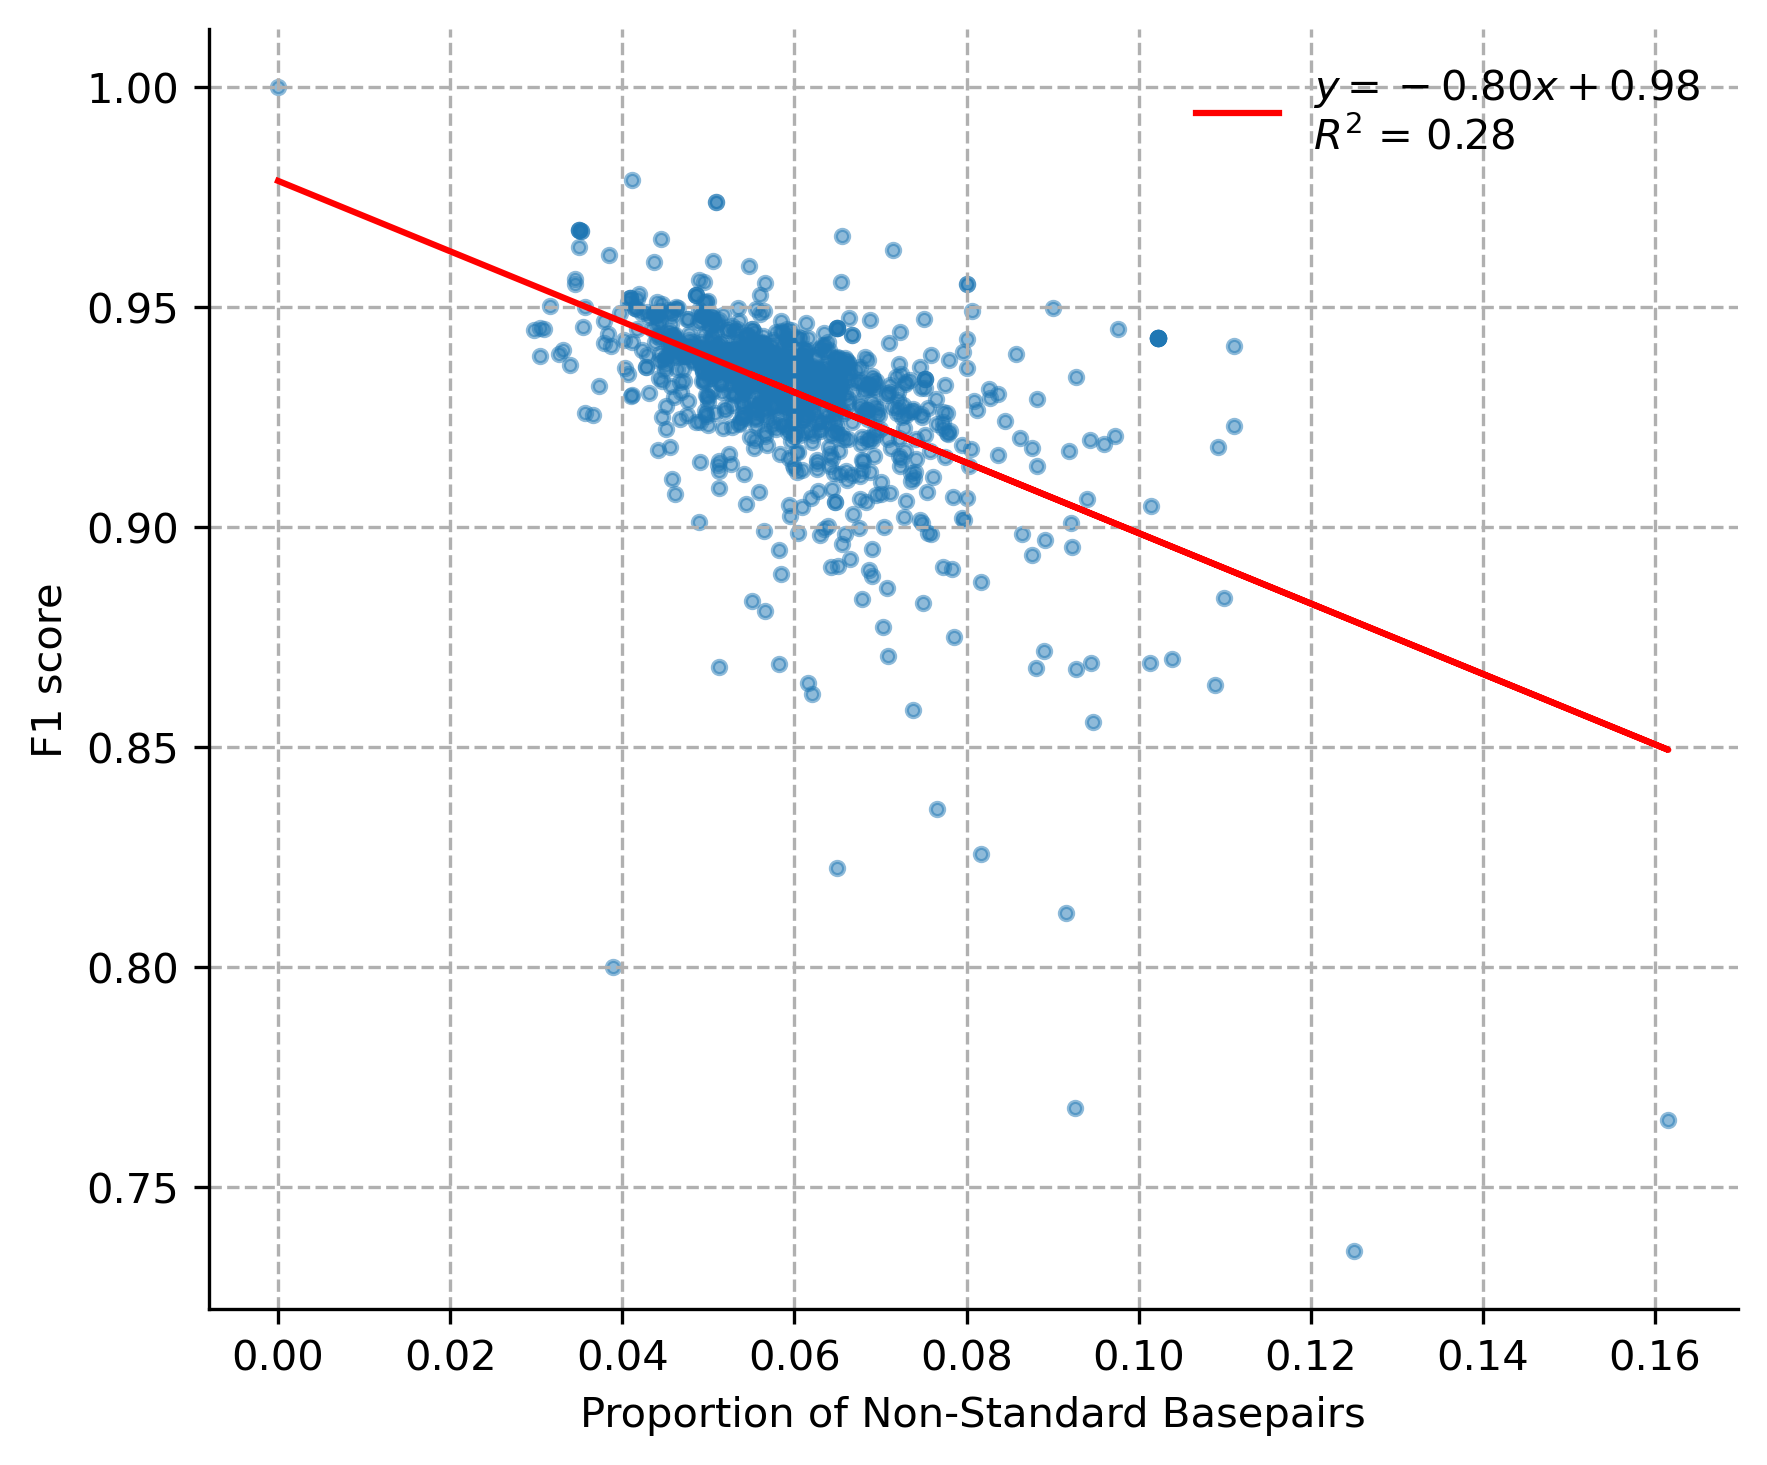
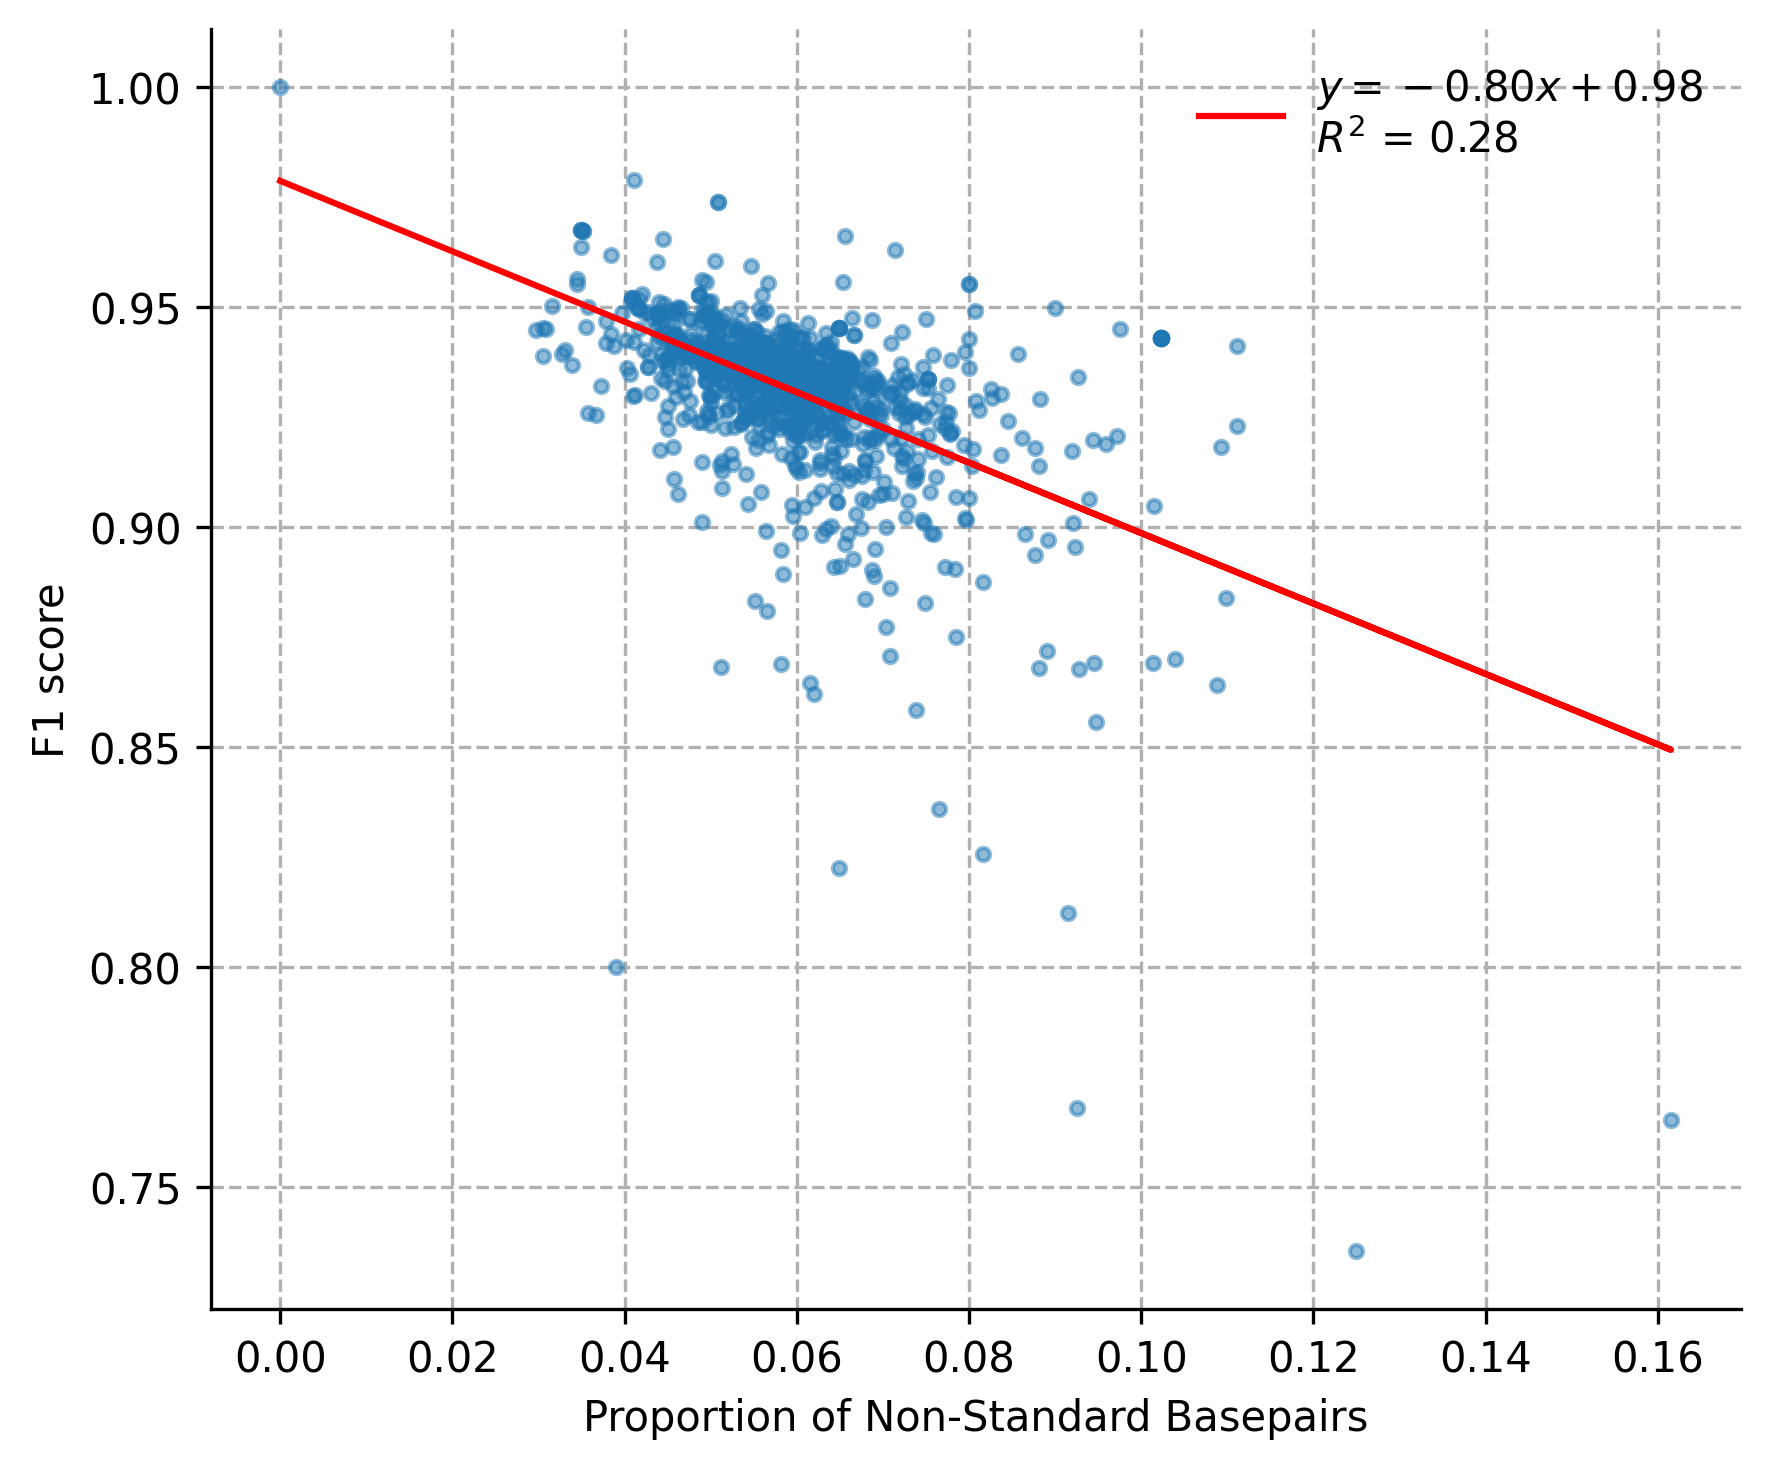
Changed order of lines on plot

diff --git a/scripts/16SrRNA.py b/scripts/16SrRNA.py
@@ -27,19 +27,19 @@ def count_non_standard_bp(sequence, output):
     
     return non_standard, total_pairs
 
-def plot_correlation(df): 
+def plot_correlation(df, f1_type='F1 score'): 
     fig, ax = plt.subplots(figsize=(6, 5))
 
     x = np.array([i/j for i, j in zip(df['Non-standard basepairs'], df['Total basepairs'])])
 
-    slope, intercept, r_value, p_value, std_err = linregress(x, df['F1 score'])
+    slope, intercept, r_value, p_value, std_err = linregress(x, df[f1_type])
     r_squared = r_value**2
 
-    ax.scatter(x, df['F1 score'], s=10, alpha=0.5)
-    ax.plot(x, intercept+slope*x, color='red', label = f'$y = {slope:.2f}x + {intercept:.2f}$\n$R^2$ = {r_squared:.2f}')
+    ax.scatter(x, df[f1_type], s=10, alpha=0.5, zorder = 3)
+    ax.plot(x, intercept+slope*x, color='red', label = f'$y = {slope:.2f}x + {intercept:.2f}$\n$R^2$ = {r_squared:.2f}', zorder = 3)
 
-    ax.grid(linestyle = '--')
-    ax.set_ylabel("F1 Score")
+    ax.grid(linestyle = '--', zorder = 0)
+    ax.set_ylabel(f1_type)
     ax.set_xlabel("Proportion of Non-Standard Basepairs")
 
     plt.gca().spines['right'].set_visible(False)
@@ -49,7 +49,7 @@ def plot_correlation(df):
 
     plt.tight_layout()
 
-    plt.savefig('figures/16SrRNA_correlation.png', dpi=300, bbox_inches='tight')
+    plt.savefig(f'figures/16SrRNA_correlation_{f1_type}.png', dpi=300, bbox_inches='tight')
 
 
 
@@ -59,7 +59,7 @@ if __name__ == '__main__':
 
     RNA = namedtuple('RNA', 'input output length family name sequence')
 
-    df = pd.DataFrame(columns=['Length', 'Total basepairs', 'Non-standard basepairs', 'F1 score'])
+    df = pd.DataFrame(columns=['Length', 'Total basepairs', 'Non-standard basepairs', 'F1 score', 'F1 score (allow shift)'])
 
     progress = tqdm(total=len(files), unit='files')
 
@@ -73,8 +73,9 @@ if __name__ == '__main__':
 
         predicted = pickle.load(open(f'steps/RNA_Unet/{os.path.basename(file)}', 'rb'))
         _, _, F1_score = evaluate(predicted, data.output, device='cpu')
+        _, _, F1_score_shift = evaluate(predicted, data.output, device='cpu', allow_shift=True)
 
-        df.loc[len(df)] = [len(data.sequence), total_bp, non_std, F1_score]
+        df.loc[len(df)] = [len(data.sequence), total_bp, non_std, F1_score, F1_score_shift]
 
         progress.update()
     
